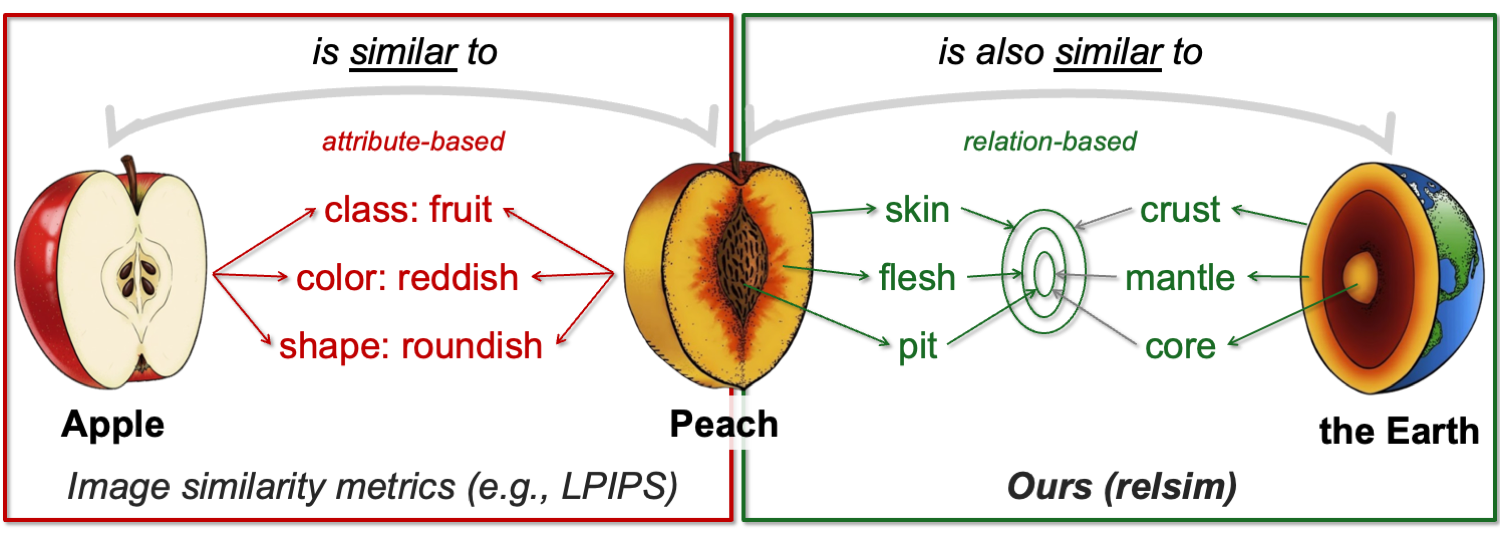
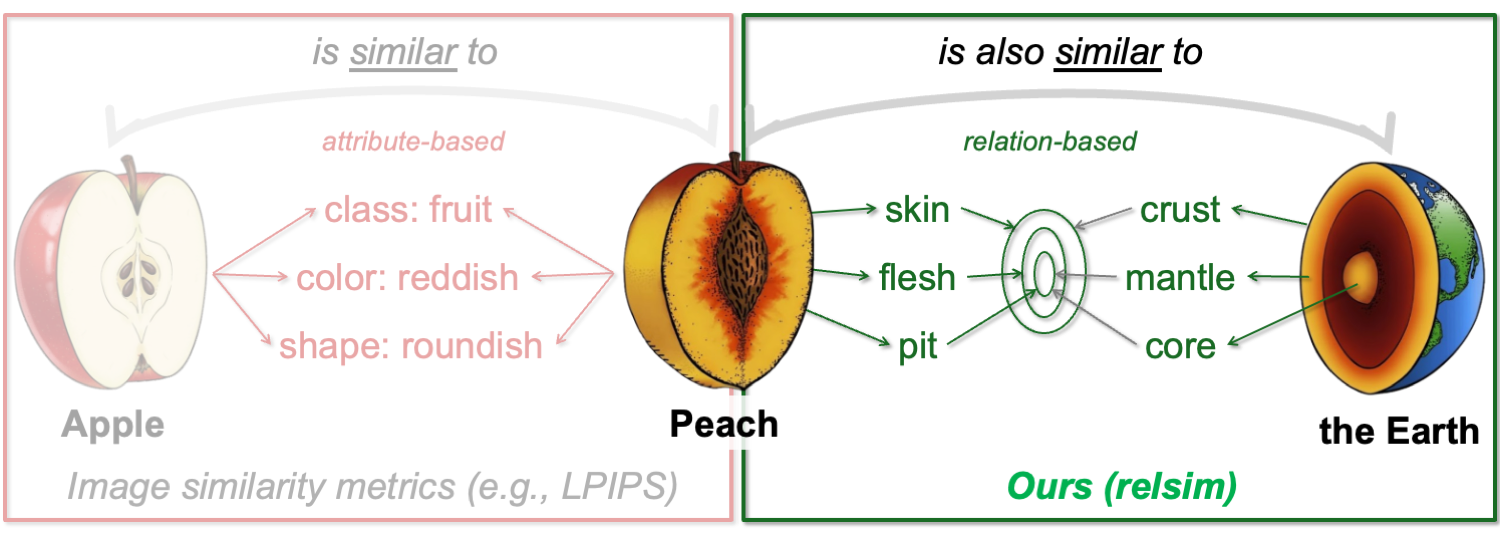
update

diff --git a/relsim/retrieve/index.html b/relsim/retrieve/index.html
@@ -72,13 +72,13 @@
            ======================================== */
         .controls-container {
             background: white;
-            padding: 5px 20px;
+            /* padding: 5px 20px; */
             margin: 0 20px 8px 20px;
             text-align: center;
         }
 
         .controls-container select {
-            padding: 6px 12px;
+            /* padding: 6px 12px; */
             border-radius: 5px;
             border: 1px solid #999;
             font-size: 0.95em;
@@ -86,7 +86,7 @@
             font-weight: 400;
             background: white;
             transition: all 0.2s ease;
-            min-width: 180px;
+            min-width: 130px;
         }
 
         .controls-container select:hover {
@@ -395,7 +395,8 @@
             padding: 12px 16px;
             margin: 15px 0;
             font-size: 0.9em;
-            color: #555;
+            color: black;
+            background-color: #fff8e1;
         }
 
         .attention-box::before {
@@ -478,15 +479,16 @@
 <body>
     <div class="page-header">
         <h1>🔍 Image Retrieval Results</h1>
-        <!-- <p>Visual Similarity Comparison: relsim vs. Baselines</p> -->
     </div>
+    <center style="margin-top: -15px;"><a href="../index.html">🔙  Back to Project Page</a></center>
+    <br>
     <center>
-        <p style="text-align: justify; font-size: 1em; max-width: 900px;">
+        <p style="text-align: justify; font-size: 1em; max-width: 850px;">
             We present <b><font style="background-color: #fdff72;">uncurated retrieval results</font></b> for 1,000 randomly selected <a href="https://thaoshibe.github.io/relsim/data_viewer/anonymous_captions.html">test images</a>.
             For each query, we retrieve the top 10 most similar images using:
             <font style="background-color: #D4EDDA; font-weight: bold;">(i) Relational-based: <font style="color: green; font-weight: bold;">relsim (ours)</font></font>
             <font style="background-color: #F8D7DA; font-weight: bold;">(ii) Attribute-based: <font style="color: red; font-weight: bold;">DINO</font> and <font style="color: red; font-weight: bold;">CLIP</font></font>
-            Some images may be missing if their original URLs are no longer active.
+            <!-- <br>Some images may be missing if their original URLs are no longer active. -->
         </p>
                 </center>
     <div class="controls-container">
@@ -498,7 +500,7 @@
     </div>
     <center>
     <div class="attention-box" style="max-width: 768px; text-align: justify; font-size: 1em;">
-        All images are sourced from the publicly available <a href="https://laion.ai/blog/laion-5b/">LAION</a> dataset and displayed via their <b>original URLs, which may no longer be active</b>. We do not claim ownership and credit the original creators.
+        All images are sourced from the publicly available <a href="https://laion.ai/blog/laion-5b/">LAION</a> dataset and displayed via their <b>original URLs, which may no longer be active</b>. We do <b>not</b> claim ownership and credit the original creators.
     </div>
     </center>
     

diff --git a/relsim/index.html b/relsim/index.html
@@ -766,6 +766,7 @@ td.gif {
         </div>
     </div>
     <hr class="divider" />
+    
     <div style="max-width: 768px; margin: 0 auto;">
         <h2 style="text-align: left;">⚒ Usage Example</h2>
         This is the example usage of the relsim. For more details, please check: <a class="btn btn-light" role="button" href="https://github.com/thaoshibe/relsim">
